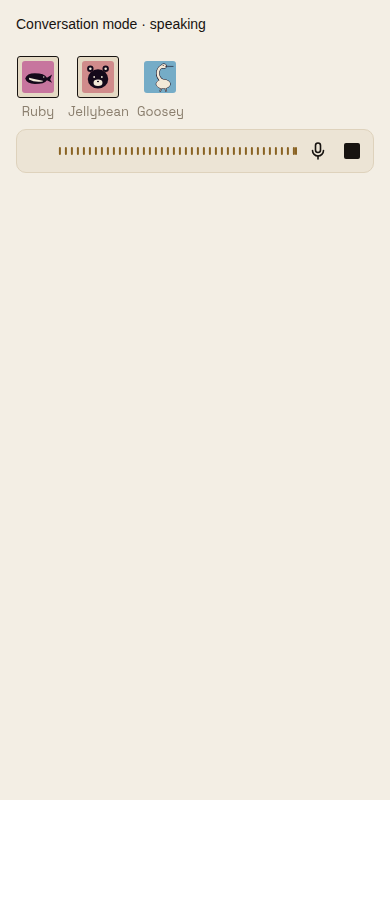
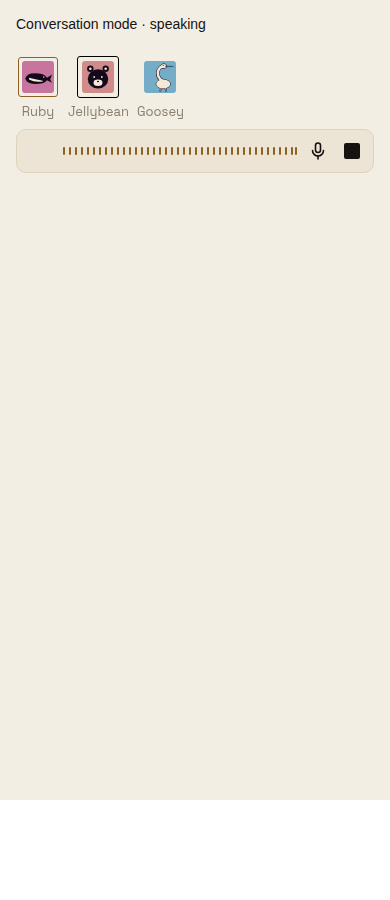
Distinguish selected and speaking conversation agents

Changed region(s): [[0.1538, 0.1556, 0.7692, 0.1867], [0.1846, 0.0622, 0.3077, 0.1244], [0.0308, 0.0622, 0.1538, 0.1244]]

diff --git a/apps/mobile/sources/components/buzz/VoiceBar.tsx b/apps/mobile/sources/components/buzz/VoiceBar.tsx
@@ -1,6 +1,7 @@
 import * as React from 'react';
 import { Pressable, ScrollView, Text, View } from 'react-native';
 import { StyleSheet, useUnistyles } from 'react-native-unistyles';
+import { HullLivePulse } from './MonoHull';
 import { IdentityMark } from './IdentityMark';
 import { DictationWaveform } from './DictationWaveform';
 import { COMPOSER_GLYPH_SIZE, MicGlyph, StopGlyph } from './MicGlyph';
@@ -12,7 +13,10 @@ export function VoiceAgentStrip({ voice }: { voice: VoiceCallState }) {
     {voice.agents.map(agent => <Pressable key={agent.pubkey} onPress={() => voice.aim(agent.pubkey)}
       accessibilityRole="button" accessibilityLabel={`Speak to ${agent.name}`}
       accessibilityState={{ selected: voice.target === agent.pubkey }} style={styles.agent}>
-      <View style={[styles.face, (voice.target === agent.pubkey || voice.speaker === agent.pubkey) && styles.active]}>
+      <View style={[styles.face, voice.target === agent.pubkey && voice.speaker !== agent.pubkey && styles.selected]}>
+        {voice.speaker === agent.pubkey && <HullLivePulse style={styles.speakingPulse}>
+          <View style={styles.speakingFrame} testID={`voice-speaking-frame-${agent.pubkey}`} />
+        </HullLivePulse>}
         <IdentityMark kind="agent" seed={agent.pubkey} face={agent.face} name={agent.name} size={32} />
       </View>
       <Text numberOfLines={1} style={styles.name}>{agent.name}</Text>
@@ -54,7 +58,9 @@ const styles = StyleSheet.create(theme => ({
   agentContent: { alignItems: 'flex-start', gap: 8 },
   agent: { minWidth: 44, minHeight: 44, maxWidth: 96, alignItems: 'center', gap: 4 },
   face: { padding: 4, borderWidth: 1, borderRadius: 3, borderColor: 'transparent' },
-  active: { borderColor: theme.buzz.textPrimary, backgroundColor: theme.buzz.bgHighlight },
+  selected: { borderColor: theme.buzz.voiceSelectionFrame },
+  speakingPulse: { ...StyleSheet.absoluteFillObject, pointerEvents: 'none' },
+  speakingFrame: { ...StyleSheet.absoluteFillObject, borderWidth: 1, borderRadius: 3, borderColor: theme.buzz.accent },
   name: { ...theme.buzz.type.meta, color: theme.buzz.textMuted },
   controls: { minHeight: 42, flexDirection: 'row', alignItems: 'center', padding: 8 },
   controlSlot: { width: 26, height: 26, marginLeft: 8, alignItems: 'center', justifyContent: 'center' },

diff --git a/apps/mobile/scripts/composer-conversation-proof.tsx b/apps/mobile/scripts/composer-conversation-proof.tsx
@@ -47,7 +47,7 @@ async function run() {
   const selected = () => document.querySelector<HTMLElement>('[aria-label="Speak to Jellybean"]');
   selected()!.click(); await pause();
   const outlined = () => getComputedStyle(selected()!.firstElementChild!).borderTopColor ===
-    (theme === 'bone' ? 'rgb(23, 19, 16)' : 'rgb(240, 240, 243)');
+    'rgb(0, 0, 0)';
   check('CONVERSATION-2: tap selects Jellybean with an avatar outline', outlined());
   const selectedLabel = Array.from(selected()!.querySelectorAll<HTMLElement>('*')).find(element => element.textContent === 'Jellybean');
   check('CONVERSATION-2: selected name has no underline', !!selectedLabel && !getComputedStyle(selectedLabel).textDecorationLine.includes('underline'));
@@ -60,7 +60,7 @@ async function run() {
     check(`${phase}: tap stays selected`, outlined());
     const faceColor = (name: string) => getComputedStyle(document.querySelector<HTMLElement>(`[aria-label="Speak to ${name}"]`)!.firstElementChild!).borderTopColor;
     check(`${phase}: inactive agent has no frame`, faceColor('Goosey') === 'rgba(0, 0, 0, 0)');
-    if (phase === 'speaking') check('CONVERSATION-2: selected and speaking agents share the same outline', faceColor('Ruby') === faceColor('Jellybean'));
+    if (phase === 'speaking') check('CONVERSATION-2: speaking frame is brass and selection stays black', getComputedStyle(byID('voice-speaking-frame-ruby')!).borderTopColor !== faceColor('Jellybean'));
     check(`${phase}: current level stays at the visible right edge`, latest().getBoundingClientRect().right <= byID('voice-waveform')!.getBoundingClientRect().right);
     if (phase === 'listening') check('CONVERSATION-3: current level grows immediately', parseFloat(getComputedStyle(latest()).height) > 2);
     const strip = byID('conversation-target-strip')!.getBoundingClientRect();

diff --git a/apps/mobile/sources/components/buzz/VoiceBar.test.tsx b/apps/mobile/sources/components/buzz/VoiceBar.test.tsx
@@ -8,6 +8,7 @@ vi.mock('react-native', () => {
   return { View: host('View'), Text: host('Text'), ScrollView: host('ScrollView'), Pressable: host('Pressable'),
     AccessibilityInfo: { isReduceMotionEnabled: async () => false, addEventListener: () => ({ remove() {} }) } };
 });
+vi.mock('./MonoHull', () => ({ HullLivePulse: (props: any) => React.createElement('LivePulse', props, props.children) }));
 vi.mock('./IdentityMark', () => ({ IdentityMark: () => null }));
 vi.mock('./MicGlyph', () => ({ COMPOSER_GLYPH_SIZE:20, MicGlyph:(props:any)=>React.createElement('MicGlyph',props), StopGlyph: (props: any) => React.createElement('StopGlyph', props) }));
 vi.mock('./BeelineMarkSpinner', () => ({ BeelineMarkSpinner: () => null }));
@@ -148,7 +149,12 @@ it('Reproduction CONVERSATION-2: tapping a face immediately marks selection and 
     expect(outline('Ruby')).toBe('transparent');
     expect(underlined()).toBe(false);
     await act(async () => updateSpeaker('ruby'));
-    expect(outline('Ruby')).toBe(outline('Goosey'));
+    expect(outline('Goosey')).toBe('#000000');
+    expect(renderer.root.findAllByType('LivePulse')).toHaveLength(1);
+    expect(renderer.root.findByProps({ testID: 'voice-speaking-frame-ruby' })).toBeTruthy();
+    await act(async () => updateSpeaker('goose'));
+    expect(outline('Goosey')).toBe('transparent');
+    expect(renderer.root.findByProps({ testID: 'voice-speaking-frame-goose' })).toBeTruthy();
     expect(face('Goosey').props.accessibilityState.selected).toBe(true);
     await act(async () => updateSpeaker(null));
     expect(outline('Ruby')).toBe('transparent');

diff --git a/apps/mobile/sources/buzz/groknight.ts b/apps/mobile/sources/buzz/groknight.ts
@@ -15,6 +15,8 @@ const shared = {
   // The one floating-surface shadow ink; its density is per theme
   // (`dialogShadowOpacity`).
   dialogShadowColor: '#000000',
+  // Explicit black selection frame for conversation routing.
+  voiceSelectionFrame: '#000000',
   // Human and agent relay photos defeat their identity axes, so their shared
   // photo gate stays off. Workspace pictures are the explicit exception and
   // are gated separately in photo-overrides.ts.

diff --git a/docs/voice-mode.md b/docs/voice-mode.md
@@ -51,8 +51,9 @@ with an agent's name or an explicit avatar tap to get a reply.
 A name-only segment holds that human's addressee for three seconds, renewed
 while that human speaks. An avatar tap selects that human's call target until
 another tap or spoken opening name replaces it, including after pauses and replies.
-Selected and speaking avatars use the same outline style; other avatars have no
-frame. Names are never underlined. An unfinished request retains
+Selected avatars have a black frame. Speaking avatars have a pulsing brass frame,
+which takes precedence when the speaker is also selected. Other avatars have no frame.
+Reduced motion keeps the speaking frame steady. Names are never underlined. An unfinished request retains
 its addressee across further segments; an explicit new name replaces it. Other
 humans cannot consume the draft. Delivery, cancel, expiry or departure clears the temporary spoken address.
 Departure also clears the persistent tap selection. An expired name alone never dispatches work; an unaddressed

diff --git a/apps/mobile/evidence/conversation-composer/README.md b/apps/mobile/evidence/conversation-composer/README.md
@@ -15,9 +15,9 @@ visible newest edge. A level update changes that bar in the same synchronous
 render, before any history sample or timer advances. History keeps its existing
 glide and 120 ms spacing, without attack/release smoothing. It then ends the call and sends a staged document with the next message,
 reusing the upload. Both themes print RESULT PASS. Screenshots show Ruby speaking
-while Jellybean remains selected. Both use the same outline style; inactive
-Goosey has no frame. There are no frame-color distinctions between selection and
-speech.
+while Jellybean remains selected. Jellybean has a black selection frame; Ruby has a pulsing brass speaking frame.
+Inactive Goosey has no frame. Speaking takes precedence when the selected agent speaks.
+The production HullLivePulse respects reduced motion and app backgrounding.
 
 Reproductions CONVERSATION-2 (tap selection) and CONVERSATION-3 (live waveform)
 are also covered by the native component and speech-event tests. The browser
